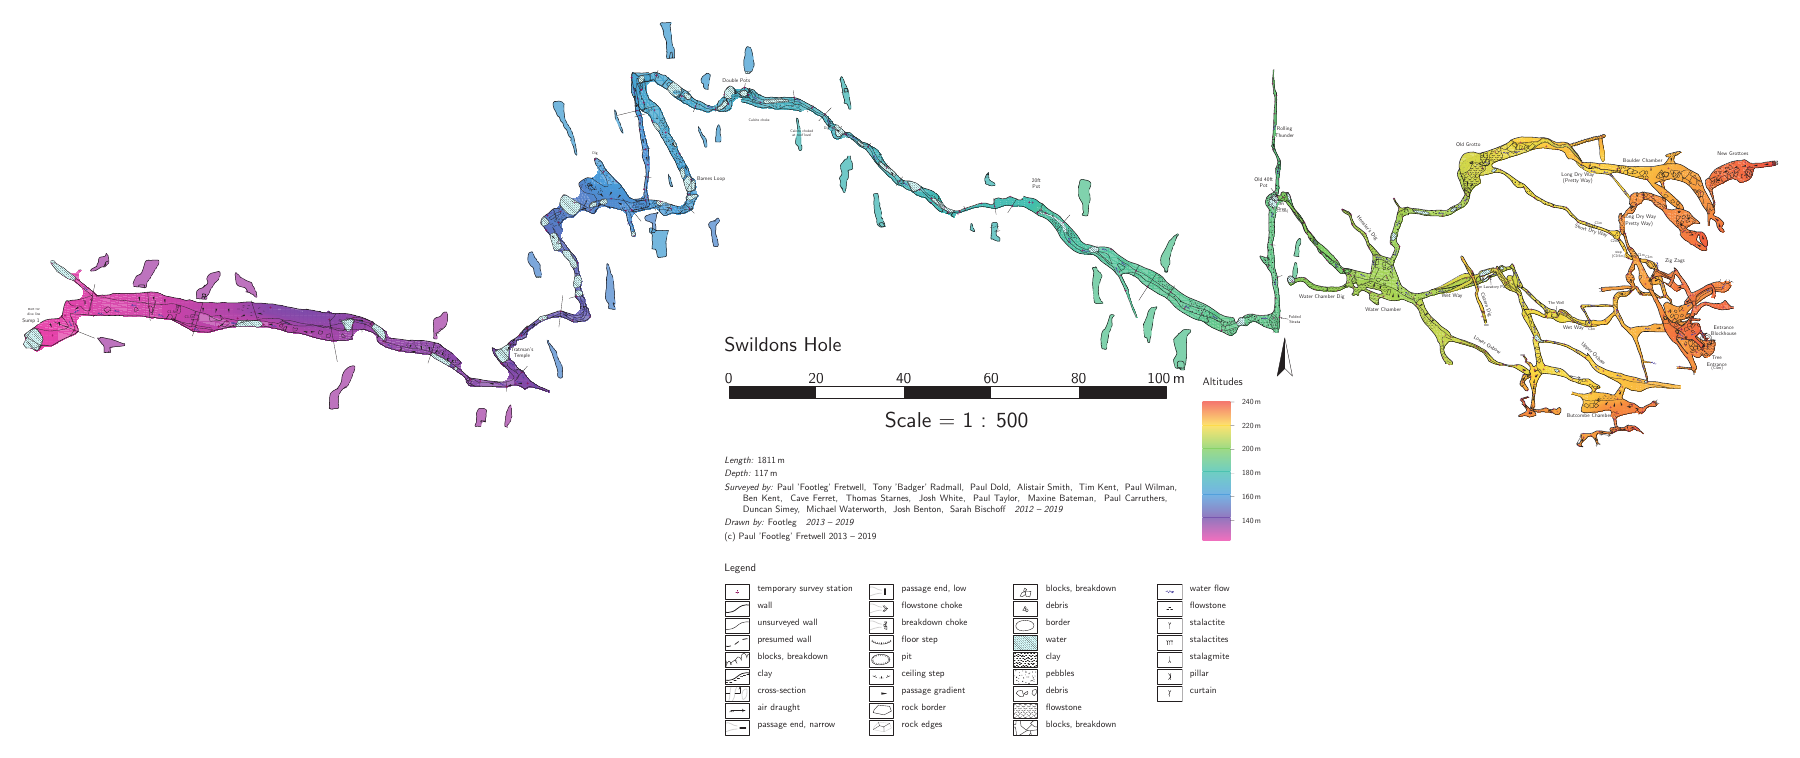
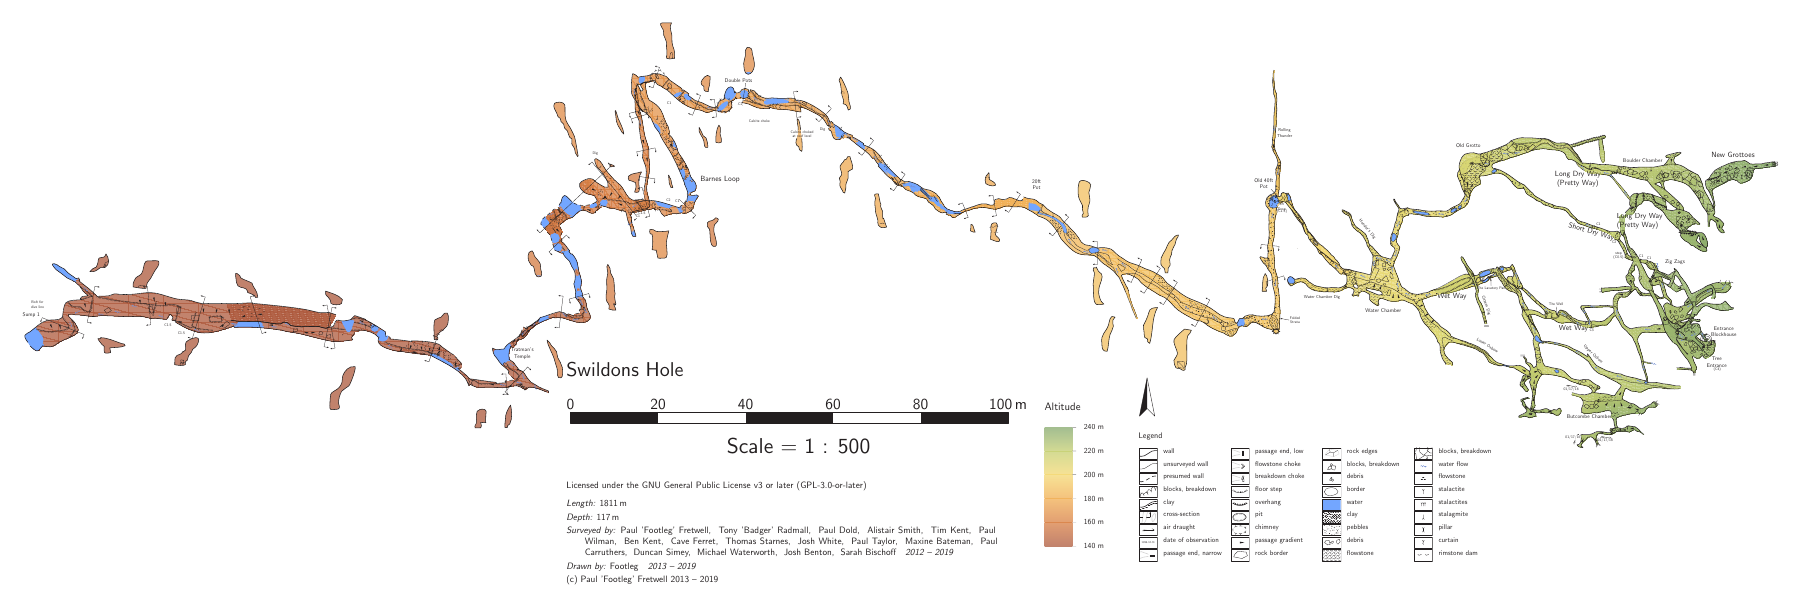
README: lead with the survey site, new plan screenshot
The plan image now opens the survey site (index.html) rather than the
plan PDF, with a big "Open the survey" link straight under it. The 3D
view, getting there and route cards are rows in the sheet table rather
than paragraphs with their own images, the Therion link moves below
the table, and the streamway elevation image moves to "What's
surveyed". The plan screenshot is regenerated from the one-row header
layout.

Claude-Session: https://claude.ai/code/session_01NATN1SK7dZwXdgpQwBft9F

diff --git a/README.md b/README.md
@@ -1,17 +1,16 @@
 # Swildons Hole
 
-[![Plan of Swildons Hole from the entrance to Sump 1](docs/swildons-plan.png)](https://paperclipmonkey.github.io/caves-mendip-swildons/Swildons-plan.pdf)
+[![Plan of Swildons Hole from the entrance to Sump 1. Click to open the survey.](docs/swildons-plan.png)](https://paperclipmonkey.github.io/caves-mendip-swildons/)
 
-The survey of **Swildons Hole**, Priddy, Mendip, Somerset. It combines
-the resurvey led by Paul 'Footleg' Fretwell (2012–2019) with
-W. I. Stanton's original survey of the 1950s and 60s, transcribed from
-his logbooks. The resurvey was done with DistoX and PocketTopo; the
-survey is drawn and built with [Therion](https://therion.speleo.sk/).
+## **[Open the survey →](https://paperclipmonkey.github.io/caves-mendip-swildons/)**
 
-**[Open the survey](https://paperclipmonkey.github.io/caves-mendip-swildons/)**:
-the latest sheets, rebuilt from this repository every time it changes.
+The survey of **Swildons Hole**, Priddy, Mendip, Somerset: the resurvey
+led by Paul 'Footleg' Fretwell (2012–2019) joined to W. I. Stanton's
+survey of the 1950s and 60s. The survey site has every sheet, the 3D
+view, directions to the entrance and the route cards, rebuilt from this
+repository every time it changes.
 
-| Sheet | |
+| On the survey site | |
 |---|---|
 | [Plan](https://paperclipmonkey.github.io/caves-mendip-swildons/Swildons-plan.pdf) | Entrance to Sump 1, coloured by altitude, with cross-sections along the streamway. 1:500. |
 | [Extended elevation](https://paperclipmonkey.github.io/caves-mendip-swildons/Swildons-extended-elevation.pdf) | The whole drawn cave unrolled along its passages, entrance to Sump 1. 1:500. |
@@ -22,25 +21,14 @@ the latest sheets, rebuilt from this repository every time it changes.
 | [Plan, greyscale](https://paperclipmonkey.github.io/caves-mendip-swildons/Swildons-plan-bw.pdf) | For a black-and-white printer. |
 | [Plan with centreline](https://paperclipmonkey.github.io/caves-mendip-swildons/Swildons-plan-centreline.pdf) | The plan with survey legs and station names, for resurveying. 1:500. |
 | [Plan with Stanton's survey](https://paperclipmonkey.github.io/caves-mendip-swildons/Swildons-plan-with-stanton.pdf) | The plan plus Stanton's survey beyond it as centreline, with station names, for planning where to resurvey next. 1:500. |
-
-**[The cave in 3D](https://paperclipmonkey.github.io/caves-mendip-swildons/3d/)**:
-the survey beneath the Environment Agency's LIDAR ground surface and
-satellite imagery, in the browser. See [tools/model3d](tools/model3d/README.md).
-
-[![Swildons Hole in 3D beneath the ground](docs/swildons-3d.jpg)](https://paperclipmonkey.github.io/caves-mendip-swildons/3d/)
-
-**Getting there**: for visitors new to the area, a map of where to park
-and the walks to the entrance. See [tools/surface](tools/surface/README.md).
-
-**Route cards** (draft): one sheet per route through the cave, with
-the way to go at each junction, made automatically from the survey. See
-[tools/routes](tools/routes/README.md); the routes are in `routes/`.
+| [The cave in 3D](https://paperclipmonkey.github.io/caves-mendip-swildons/3d/) | The survey beneath the Environment Agency's LIDAR ground surface and satellite imagery, in the browser. See [tools/model3d](tools/model3d/README.md). |
+| [Getting there](https://paperclipmonkey.github.io/caves-mendip-swildons/surface/index.html) | For visitors new to the area: where to park and the walks to the entrance. See [tools/surface](tools/surface/README.md). |
+| Route cards (draft) | One sheet per route through the cave, with the way to go at each junction, made from the survey. On the [survey site](https://paperclipmonkey.github.io/caves-mendip-swildons/); see [tools/routes](tools/routes/README.md). |
 
 The survey site also has the 3D model (Survex `.3d` for Aven, Therion
 `.lox` for Loch), Google Earth `.kml` files and the survey data as CSV
-and SQL.
-
-[![Extended elevation of the streamway from the Old 40 to Sump 1](docs/swildons-streamway-elevation.png)](https://paperclipmonkey.github.io/caves-mendip-swildons/Swildons-streamway-elevation.pdf)
+and SQL. The resurvey was done with DistoX and PocketTopo, and the
+survey is drawn and built with [Therion](https://therion.speleo.sk/).
 
 ## What's surveyed
 
@@ -63,6 +51,8 @@ vertical range, fixed to the OS grid at the entrance by GPS.
   Where the resurvey has replaced one of his sections, his legs are kept
   to connect the rest of his survey but flagged `duplicate`, so they
   are not counted twice.
+
+[![Extended elevation of the streamway from the Old 40 to Sump 1](docs/swildons-streamway-elevation.png)](https://paperclipmonkey.github.io/caves-mendip-swildons/Swildons-streamway-elevation.pdf)
 
 ### Resurvey trips
 
